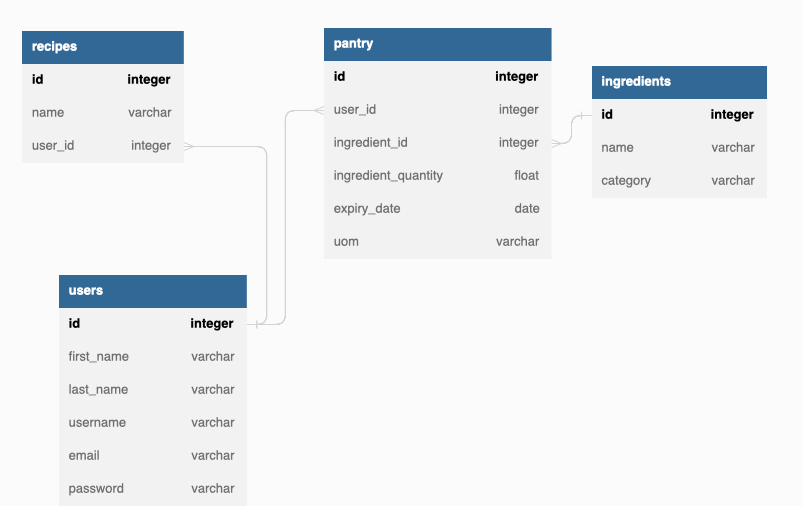
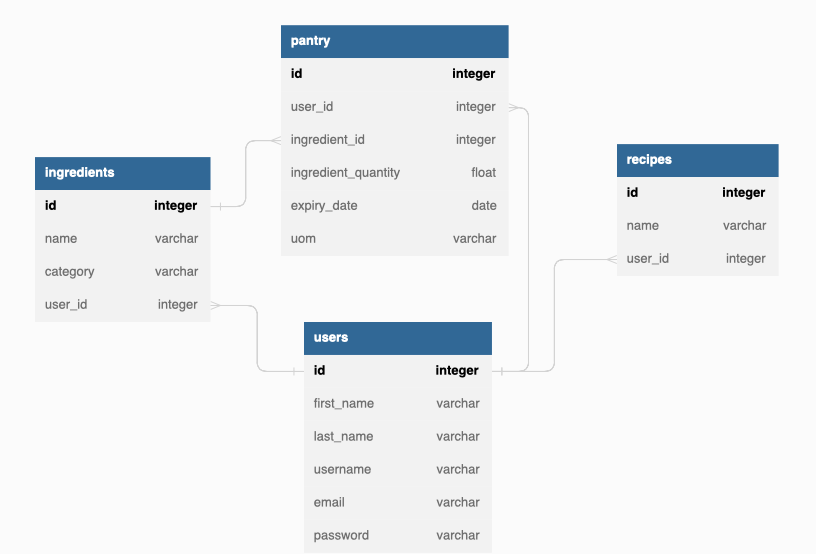
update readme

diff --git a/templates/ingredients/ingredients.html b/templates/ingredients/ingredients.html
@@ -7,8 +7,8 @@
 <div>
     <h3>Ingredient Name: </h3>
     <p>Category: </p>
-    <button></button>
-    <button></button>
+    <button>Edit Ingredient</button>
+    <button>Add New Ingredient</button>
 </div>
 
 

diff --git a/app.py b/app.py
@@ -1,7 +1,7 @@
 from flask import Flask, render_template, redirect, flash, jsonify, session, g
 from flask_debugtoolbar import DebugToolbarExtension
 from forms import LoginForm, SignupForm, EditUserForm
-from models import User, db, connect_db
+from models import User, db, connect_db, User, Ingredients, Pantry, Recipe
 from flask_migrate import Migrate
 
 app = Flask(__name__)
@@ -20,6 +20,9 @@ CURR_USER_KEY = 'user_id'
 with app.app_context():
     connect_db(app)
     db.create_all()
+
+####################
+# User endpoints
 
 @app.before_request
 def add_user_to_g():
@@ -42,10 +45,6 @@ def do_logout():
     if CURR_USER_KEY in session:
         del session[CURR_USER_KEY]
 
-
-@app.route('/')
-def home_page():
-    return render_template('home.html')
 
 @app.route('/register', methods=['GET','POST'])
 def register_user():
@@ -171,7 +170,25 @@ def delete_user(user_id):
         db.session.commit()
         flash('Account deleted successfully')
         return redirect('/')
-        
+
     except Exception as e:
         return str(e)
+
+###################################### 
+ # Misc Pages
+
+@app.route('/')
+def home_page():
+    """Render Home Page"""
     
+    return render_template('home.html')
+
+######################################
+# Ingredients' Endpoints
+
+@app.route('/users/ingredients')
+def show_ingredients():
+
+    ingredients = Ingredients.query.filter_by(user_id=g.user.id).all()
+
+    return render_template('/ingredients/ingredients.html', ingredients=ingredients)

diff --git a/models.py b/models.py
@@ -18,7 +18,8 @@ class User(db.Model):
     password = db.Column(db.Text, nullable=False)
     recipe = db.relationship('Recipe', backref='user', cascade="all, delete-orphan")
     pantry = db.relationship('Pantry', backref='user', cascade="all, delete-orphan")
-
+    ingredient = db.relationship('Ingredients', backref='user', cascade="all, delete-orphan")
+    
     @classmethod
     def register(cls, first_name, last_name, username, email, password):
         """Registers Users w/ Hashed Password and Returns User"""
@@ -47,6 +48,7 @@ class Ingredients(db.Model):
     id = db.Column(db.Integer, primary_key=True, autoincrement=True)
     name = db.Column(db.Text, nullable=False)
     category = db.Column(db.Text)
+    user_id = db.Column(db.Integer, db.ForeignKey('users.id', ondelete='CASCADE'))
     pantry = db.relationship('Pantry', backref='ingredient', cascade="all, delete-orphan")
     
     
